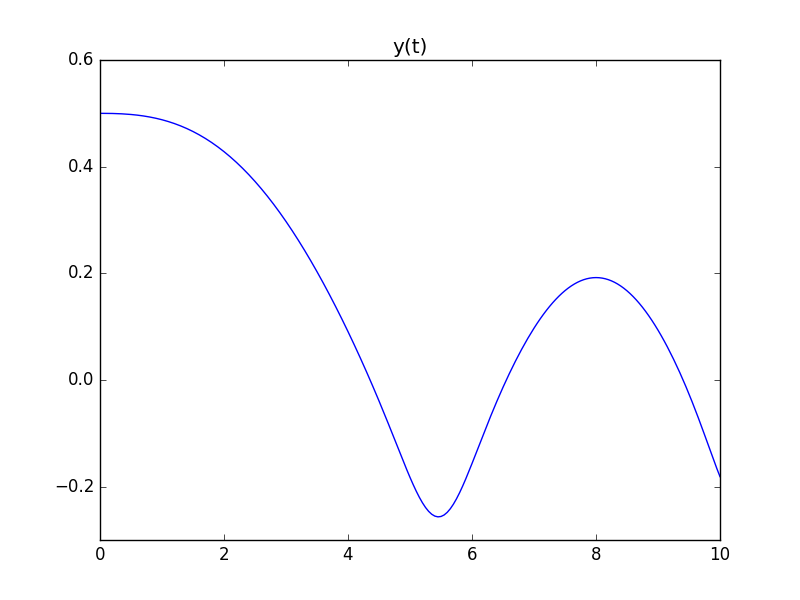
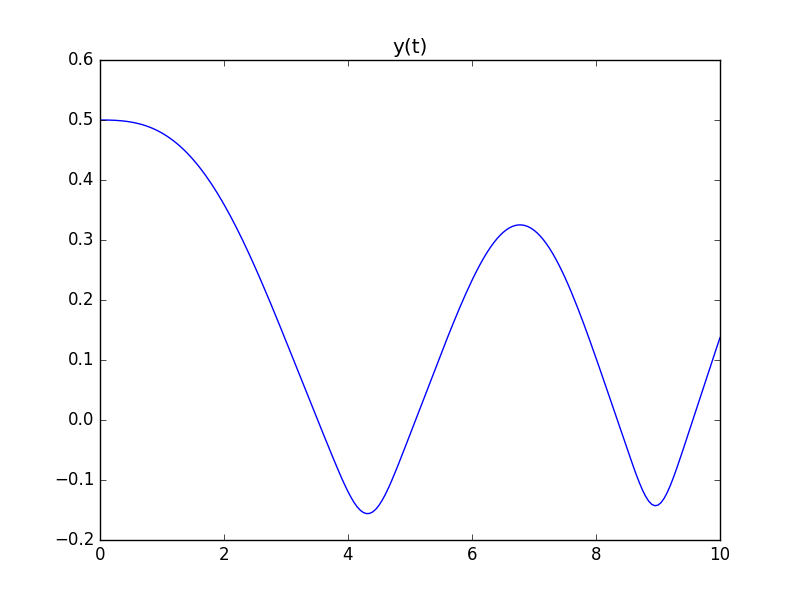
Added C1 and C2, Ф

diff --git a/numeric/templates/manual.html b/numeric/templates/manual.html
@@ -33,6 +33,7 @@
 
 {% block result %}
     <div class="row" style="padding: 0; margin: 0;">
+    {% if c1 %}<p>C1 = {{ c1 }} | C2 = {{ c2 }} | Ф = {{ minim }}</p>{% endif %}
     {% for pic in pics %}
         <div class="col-sm-6"><img src="{{ pic }}" class="img-responsive"/></div>
     {% endfor %}

diff --git a/numeric/views.py b/numeric/views.py
@@ -45,6 +45,14 @@ def tabulate(func, argname, max=1, steps=100):
     return ff
 
 
+def draw_pic(name, tabs, filename):
+    fig = plt.figure()
+    plt.title(name)
+    plt.plot([p.x for p in tabs], [p.y for p in tabs])
+    fig.savefig(settings.STATIC_DIR + '%s.png' % filename)
+    return '/static/%s.png' % filename
+
+
 @never_cache
 def manual(request):
     context = {}
@@ -70,13 +78,12 @@ def manual(request):
             context['pics'] = []
             prob = solver.freeze(solver.integral(dens, 0, 0, steps), 0, 1, steps)
 
-            f = lambda t, x: calc(function,
-                                  x=x[0],
-                                  t=t,
-                                  y=x[1],
-                                  B=B, T=T, p=dens, U=lambda y: (1-prob(y)), S=s, z=z)
+            def f(t, x, **kwargs):
+                return calc(function, x=x[0], t=t, y=x[1],
+                            B=B, T=T, p=dens,
+                            U=lambda y: (1-prob(y)),
+                            S=s, z=z, **kwargs)
 
-            # dy, u = solver.prepare(prob, dens, s, z, function, B=B, T=T)
             dz = solver.derivative(z)
             dz = solver.freeze(dz, 0, T, steps)
 
@@ -93,16 +100,21 @@ def manual(request):
             x = solver.interpolate(x_t)
             y = solver.interpolate(y_t)
 
+            dx = solver.derivative(x)
+            wp = lambda w: w * dens(w)
+            i_wp = solver.integral(wp, 0, 0, steps)
+            _f = lambda t: dx(t) * (i_wp(1) - i_wp(y(t)))
+            i_f = solver.integral(_f, 0, _f(0))
+            C1 = lambda B: 1 - (i_f(T) - i_f(0)) / (x(T) - x_st)
+            C2 = lambda B: abs(x(T) - s(T)) / s(T)
+
+            context['c1'] = C1(B)
+            context['c2'] = C2(B)
+            context['minim'] = C1(B) + 10 * C2(B)
+
             tabs = solver.table(y, 0, T, steps)
             prob.tabs = solver.table(prob, 0, 1, steps)
             context['tabs'] = tabs
-
-            # fig = plt.figure()
-            # u.tabs = solver.table(u, 0, 1, steps)
-            # plt.title('u(x)')
-            # plt.plot([p.x for p in u.tabs], [p.y for p in u.tabs])
-            # fig.savefig(settings.STATIC_DIR + '_u.png')
-            # context['pics'].append('/static/_u.png')
 
             fig = plt.figure()
             plt.title('y(t)')
